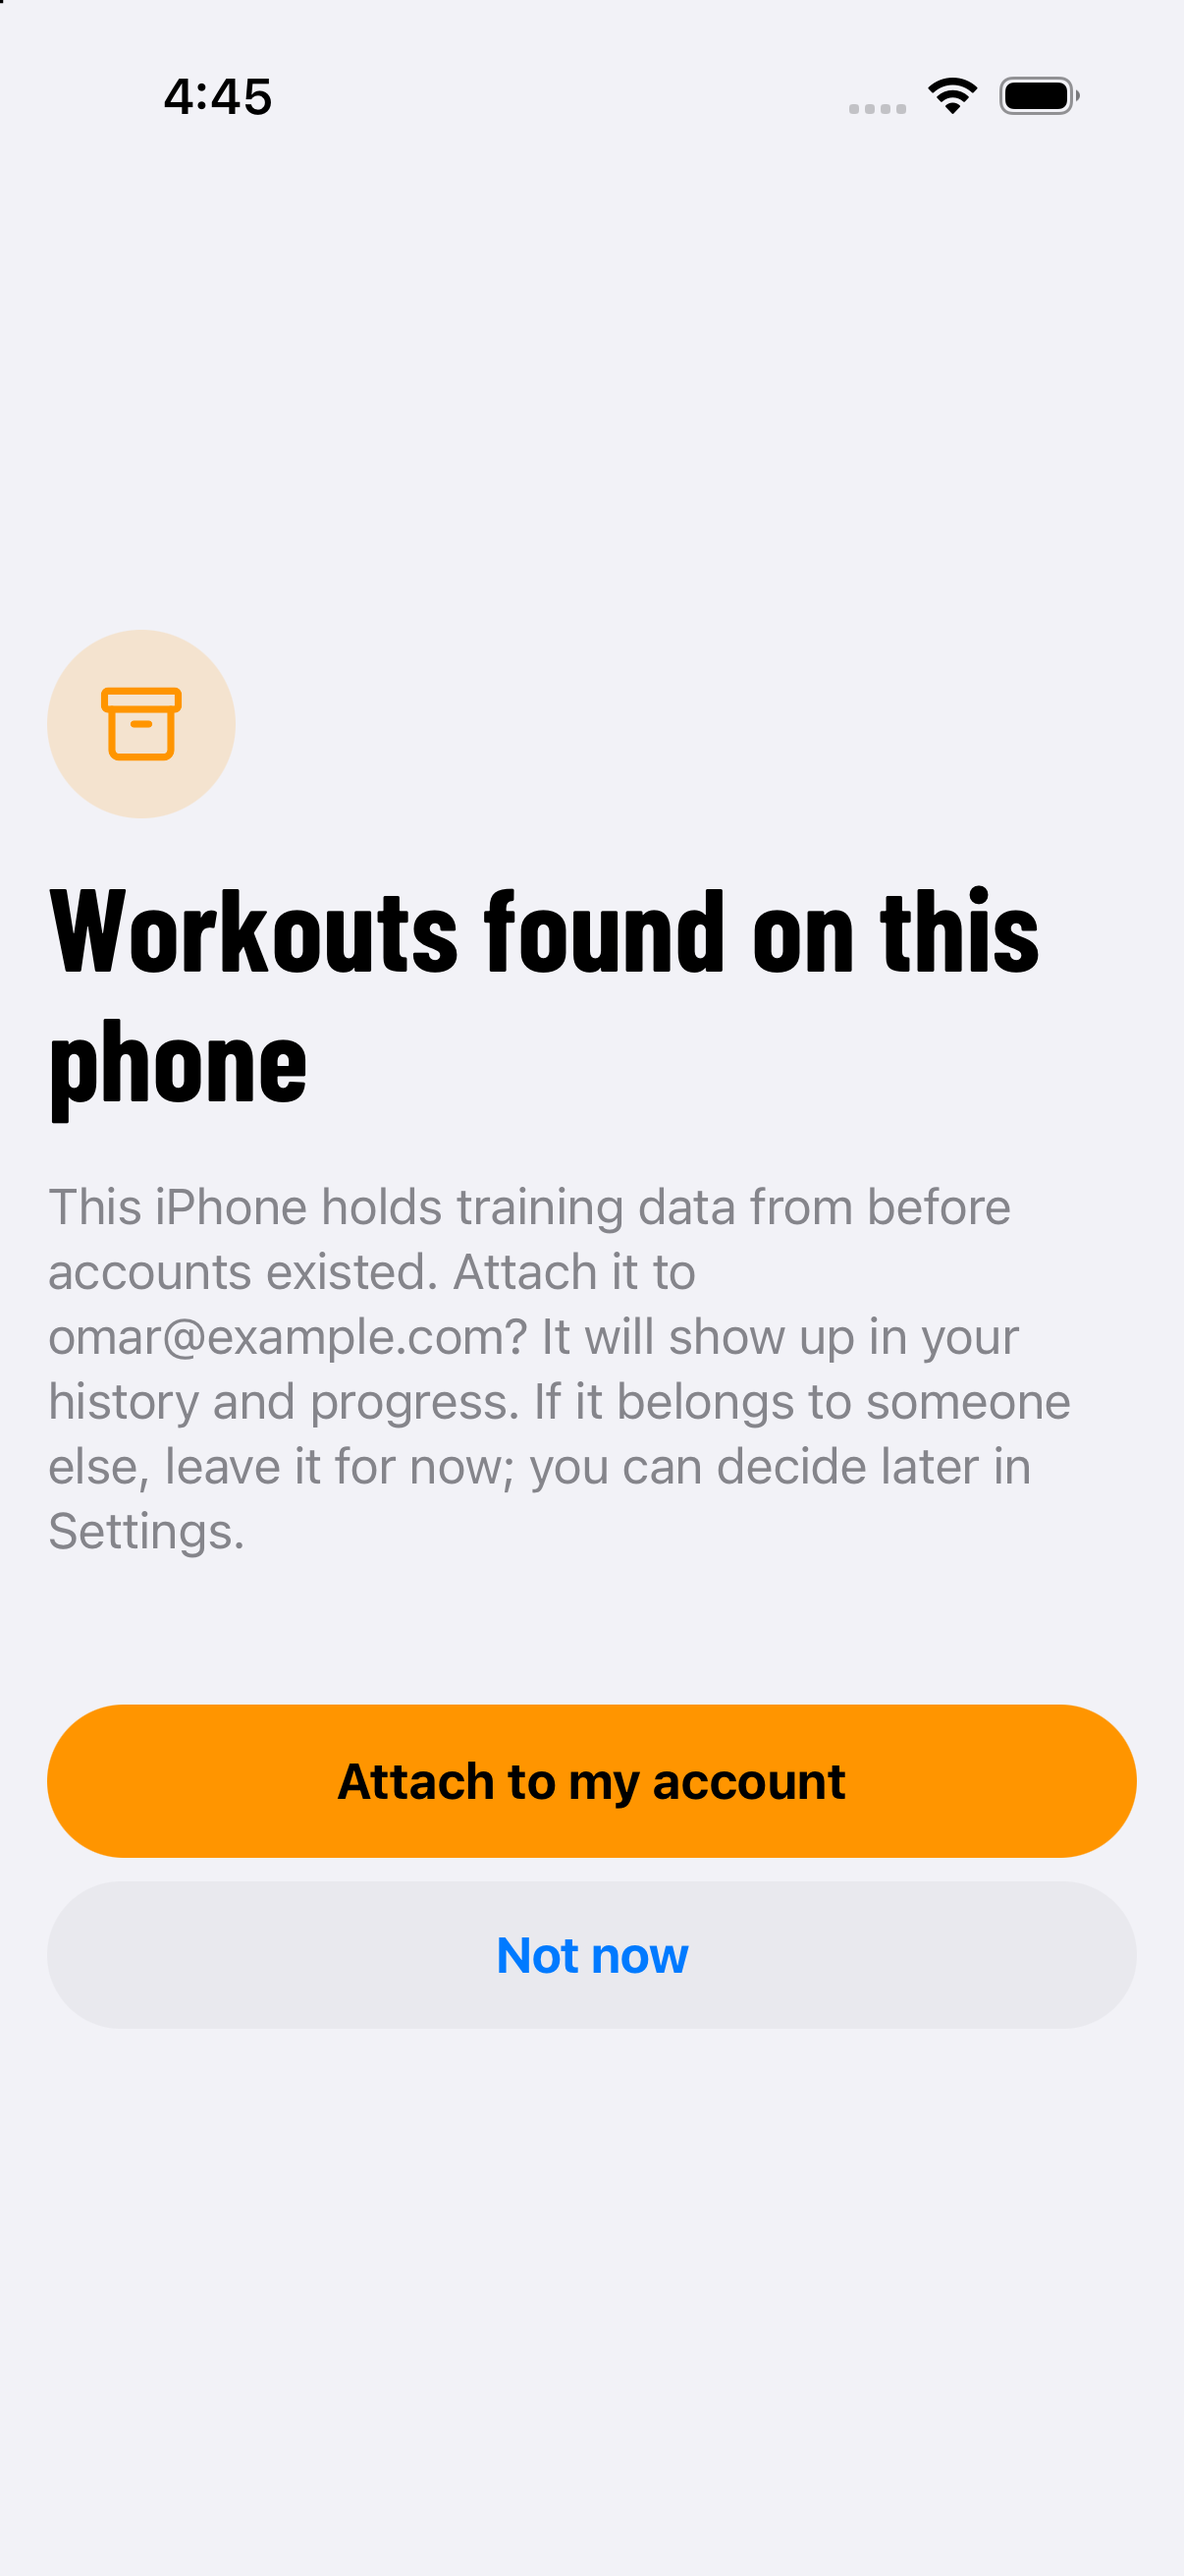
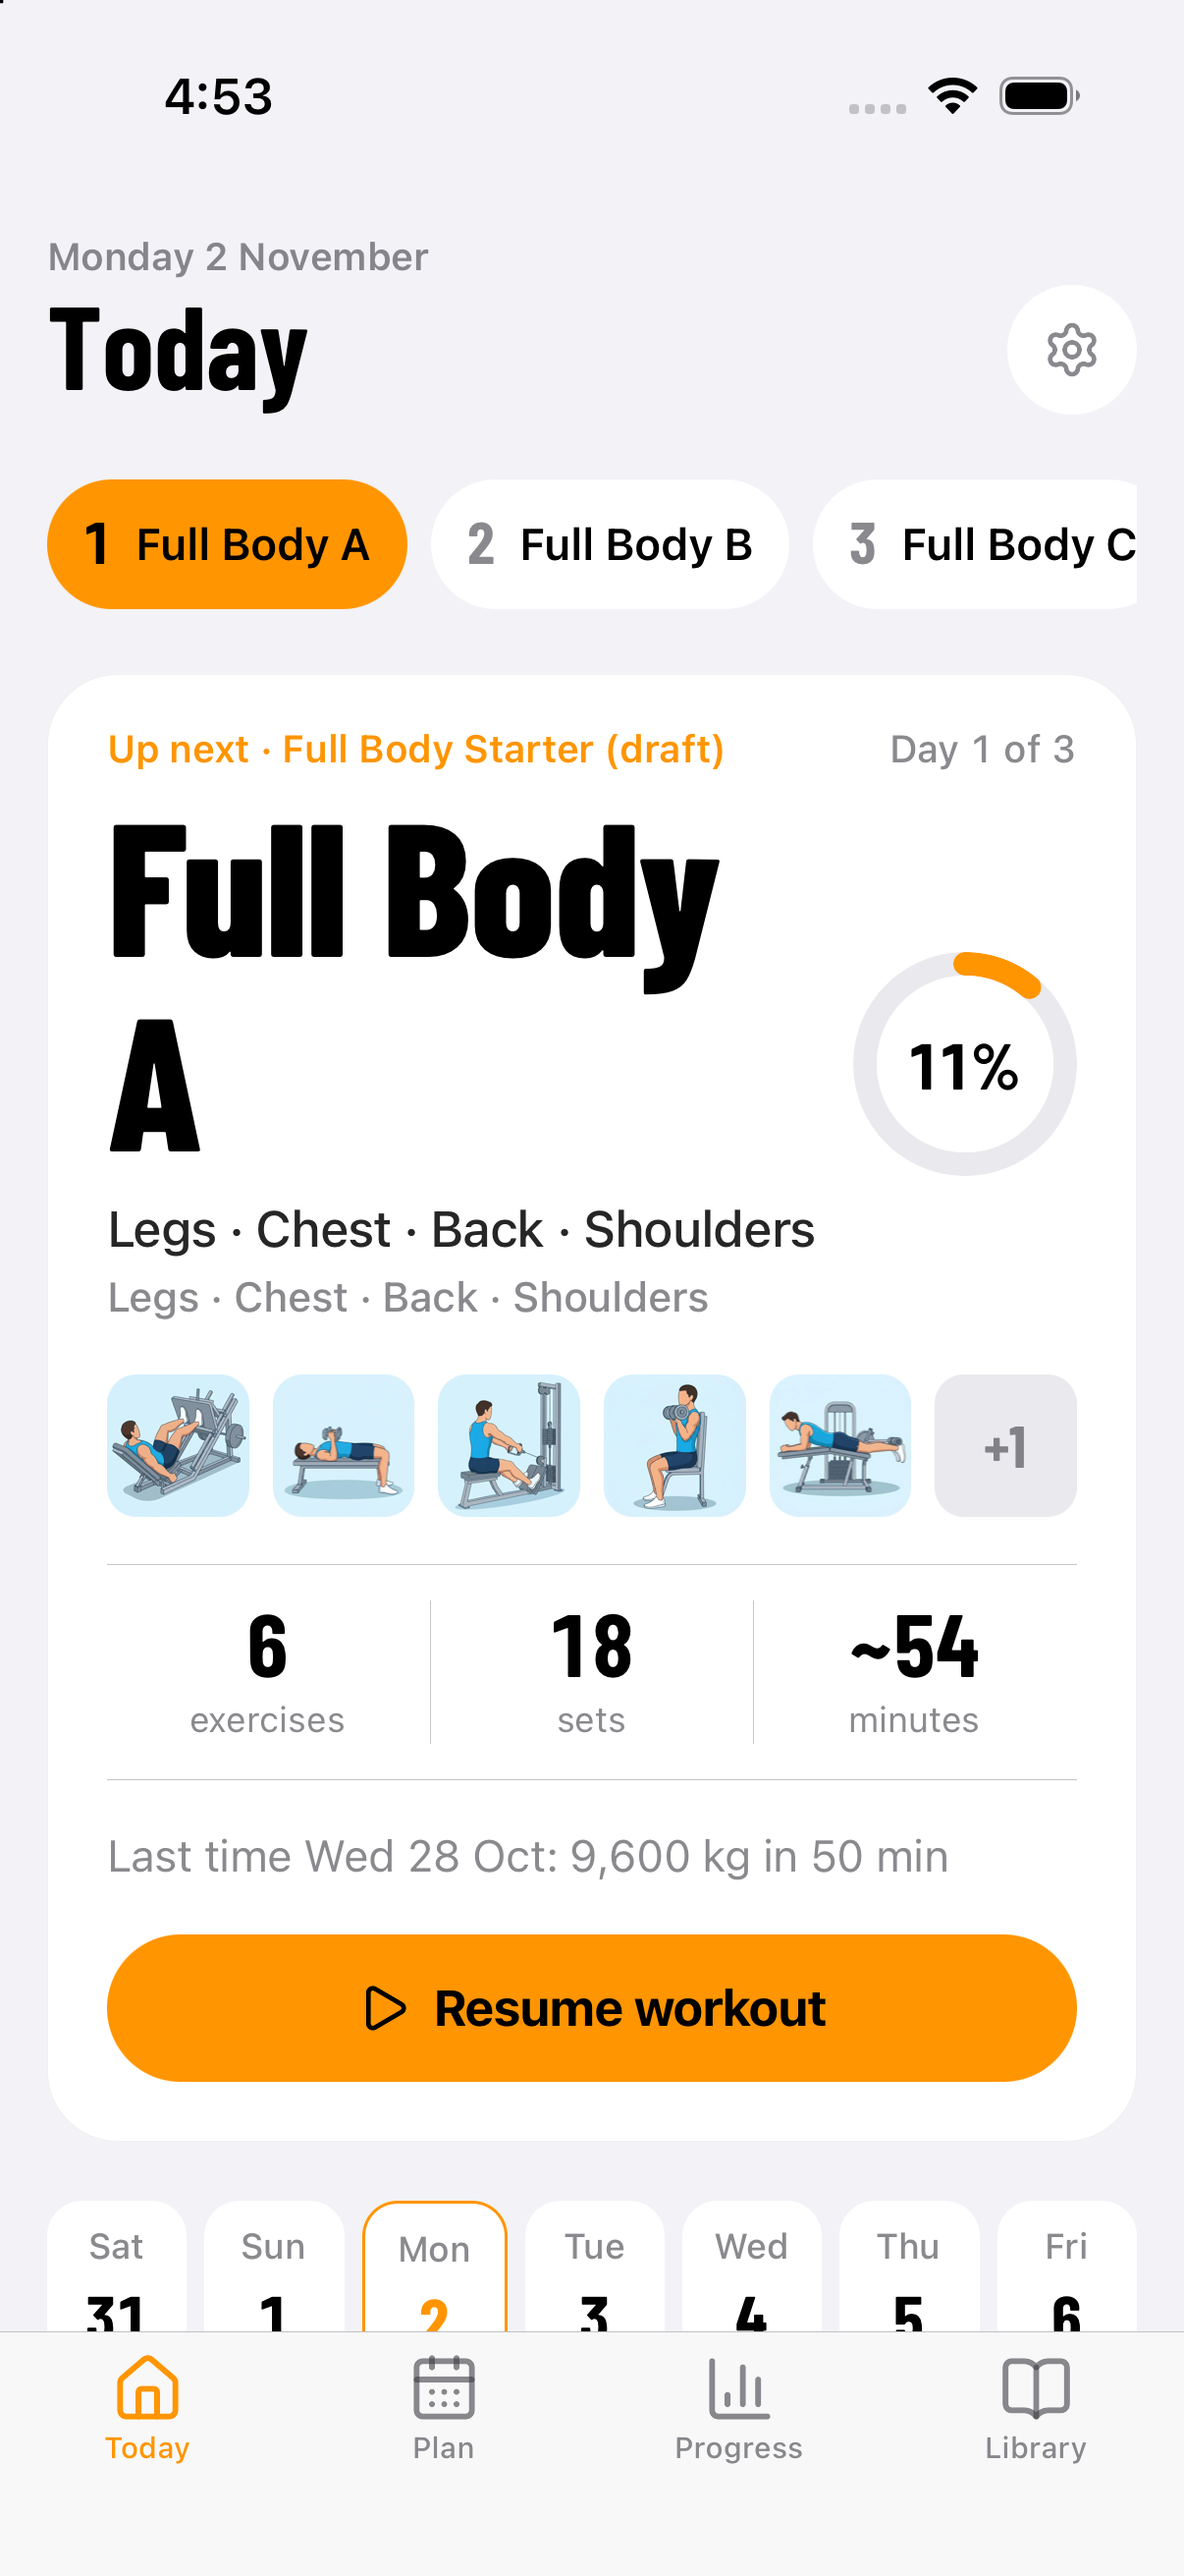
state(phase7): legacy claim verified on the simulator; Docker run recorded

diff --git a/.10x/reviews/2026-11-02-phase7-report.md b/.10x/reviews/2026-11-02-phase7-report.md
@@ -1,6 +1,6 @@
 # Phase 7 report — Private members platform
 
-**Date:** 2026-11-02 · **Branch:** `feature/phase7-private-auth` (worktree `../Gym RAT-phase7`) · **Base:** `main @ 4a65663` (Phase 6 merged) · **Tip:** `06ebdc3` · **Not merged, not pushed, nothing deployed, nothing uploaded to Apple.**
+**Date:** 2026-11-02 · **Branch:** `feature/phase7-private-auth` (worktree `../Gym RAT-phase7`) · **Base:** `main @ 4a65663` (Phase 6 merged) · **Tip:** see `git log` (state commit after `3c1c8a0`) · **Not merged, not pushed, nothing deployed, nothing uploaded to Apple.**
 **ADRs:** 015 (auth, sessions, offline lease, backend), 016 (per-account local data, legacy claim). **Spec:** `specs/2026-11-02-phase7-private-members-design.md`. **Security review:** `reviews/2026-11-02-phase7-security-review.md`. **QA:** `reviews/2026-11-02-phase7-qa-report.md`.
 
 ## Parallel-session safety
@@ -15,6 +15,8 @@ Inspected before touching anything: `main` already contained the Phase 6 merge (
 | `e39542a` | Server: admin dashboard, public link pages, Docker/Compose/Caddy, backup scripts |
 | `e65a5c1` | Server: dev CSP, Turbopack root, audit labels; dashboard screenshots |
 | `3fb949c` | App: Arabic eyebrow, brand glow; state files, README, screenshots |
+| `06ebdc3`, `b31301b` | State files, report |
+| `3c1c8a0` | App: legacy-data route reachable before onboarding, offer delayed past the iOS save-password sheet; server CLI bundled for Docker; fixture claim test |
 259 files changed (+20 693 / −1 001), of which ~110 are the new `server/` application.
 
 ## What was delivered (brief §12)
@@ -34,17 +36,18 @@ Inspected before touching anything: `main` already contained the Phase 6 merge (
 ## Test results
 | Check | Result |
 |---|---|
-| App Jest | 37 suites, **345 / 345** (37 new); 4 protected snapshots unchanged |
+| App Jest | 38 suites, **347 / 347** (39 new); 4 protected snapshots unchanged |
 | App `tsc` / `expo lint` / `expo-doctor` | 0 errors / clean / 20 / 20 |
 | Server Vitest (PGlite + real migration) | **30 / 30** (member auth 15, admin API 15) |
 | Server `tsc` / `eslint` / `next build` | 0 / clean / green (standalone output) |
+| Docker image (`docker build`, 424 MB) run against the dev Postgres | ✓ entrypoint applied migrations, `/api/health` ok, Docker healthcheck `healthy`, `dist/cli/bootstrap-admin.mjs` works inside the container, `/login` 200, login API answers; Caddyfile validated with `caddy validate` |
 | Release simulator build (arm64, Xcode 27) | **BUILD SUCCEEDED** ×2 (`release-artifacts/simulator-release-build*.log`) |
 | Unsigned device archive | **ARCHIVE SUCCEEDED** → `release-artifacts/GymRAT-unsigned.xcarchive` (zip + `SHA256SUMS.txt`) |
 | Signed archive / IPA | **Blocked** (below) |
-| End-to-end | Dashboard: setup → TOTP enrol → create members → invite → activate. App (Release simulator): sign-in → onboarding → Today → Settings account → sign-out → relaunch restore; Arabic RTL in light + true black. Server audit shows every step. |
+| End-to-end | Dashboard: setup → TOTP enrol → create members → invite → activate. App (Release simulator): sign-in → onboarding → Today → Settings account → sign-out → relaunch restore; Arabic RTL in light + true black. **Legacy claim:** the Phase 3 v7 fixture planted as `gymrat.db`, first sign-in as a new member offered the claim before onboarding, *Attach* copied it into `gymrat.u-<id>.db`, migrated 7 → 10 with a backup, renamed the original to `gymrat.legacy-claimed.db`, left the other account's file at 0 sessions, and Today showed the fixture's history (`ios-11`, `ios-12`). Server audit shows every step. |
 
 ## Screenshots (`reviews/phase7-screenshots/`)
-iOS: `ios-01-login-en`, `ios-02-login-filled`, `ios-04-today-after-login`, `ios-05-settings-account`, `ios-06-relaunch`, `ios-07-sign-out-confirm`, `ios-08-signed-out`, `ios-09-login-ar`, `ios-10-login-ar-true-black`. Admin: `admin-02-totp-enrol`, `admin-03-recovery-codes`, `admin-04-overview`, `admin-05-members`, `admin-06-member-detail` (with the simulator's device), `admin-07-security`, `admin-08-audit`, `admin-09-settings`, `admin-10-new-member`, `admin-11-members-light`, `admin-12-members-true-black`, `public-01-invitation`.
+iOS: `ios-01-login-en`, `ios-02-login-filled`, `ios-04-today-after-login`, `ios-05-settings-account`, `ios-06-relaunch`, `ios-07-sign-out-confirm`, `ios-08-signed-out`, `ios-09-login-ar`, `ios-10-login-ar-true-black`, `ios-11-legacy-claim`, `ios-12-after-claim`. Admin: `admin-02-totp-enrol`, `admin-03-recovery-codes`, `admin-04-overview`, `admin-05-members`, `admin-06-member-detail` (with the simulator's device), `admin-07-security`, `admin-08-audit`, `admin-09-settings`, `admin-10-new-member`, `admin-11-members-light`, `admin-12-members-true-black`, `public-01-invitation`.
 
 ## Backend startup (local)
 ```bash
@@ -93,5 +96,6 @@ xcodebuild -exportArchive -archivePath release-artifacts/GymRAT-signed.xcarchive
 ## Environment left behind
 - Worktree `../Gym RAT-phase7`, branch `feature/phase7-private-auth @ 3fb949c`; `main` untouched.
 - Docker container `gymrat-auth-dev-db-1` (Postgres on 127.0.0.1:5433) running with the demo data; Next dev server stopped.
-- Simulator `GymRAT-Phase7` (F0457793-D6F9-4BFA-B660-DF5BB8D8C8E1) booted, English, light, app signed out.
+- Simulator `GymRAT-Phase7` (F0457793-D6F9-4BFA-B660-DF5BB8D8C8E1) booted, English, light; signed in as the demo member who claimed the fixture history.
+- Docker image `gymrat-auth:phase7` built locally (test container removed).
 - `release-artifacts/` (gitignored): simulator build logs, unsigned archive + zip + checksums, device DerivedData, `archive-signed.log`.

diff --git a/.10x/decisions/qa/phase7-private-auth.md b/.10x/decisions/qa/phase7-private-auth.md
@@ -1,7 +1,7 @@
 # QA — phase7-private-auth
-**Automated:** app Jest 37 suites / 345 tests (37 new: `auth.session` 18, `auth.isolation` 10, `auth.screens` 9), 4 protected snapshots byte-identical; `tsc` 0; `expo lint` clean; `expo-doctor` 20/20. Server Vitest 30 tests on PGlite with the shipped migration; `tsc` 0; `eslint` clean; `next build` green.
+**Automated:** app Jest 38 suites / 347 tests (39 new: `auth.session` 18, `auth.isolation` 10, `auth.screens` 10, `auth.legacy-fixture` 1), 4 protected snapshots byte-identical; `tsc` 0; `expo lint` clean; `expo-doctor` 20/20. Server Vitest 30 tests on PGlite with the shipped migration; `tsc` 0; `eslint` clean; `next build` green; Docker image built and run locally (migrations, health, bootstrap CLI, API); Caddyfile validated.
 **Scenario coverage (brief §11):** login success/failure ✓ · disabled ✓ · missing/invalid sessions ✓ · refresh rotation + reuse ✓ · revocation (per device, all, admin) ✓ · password reset + invitation ✓ · admin-only authorization + member bearer refused ✓ · unauthorized API ✓ · brute force (per IP+account, per IP, TOTP) ✓ · account switching ✓ · local isolation ✓ · legacy migration (db + AsyncStorage, accept/decline) ✓ · offline grace ✓ · session expiry ✓ · force-quit + relaunch (unit: restore; manual: simulator) ✓ · existing workout features (308 prior tests + snapshots) ✓ · Arabic RTL + a11y labels (unit + simulator screenshot) ✓.
-**Manual (Release simulator build, GymRAT-Phase7, iPhone 17 Pro / iOS 26.3):** sign-in against the local server → onboarding → Today; Settings › Account shows lease and verification time; sign-out confirm keeps data; relaunch restores the session (`GET /api/auth/me 200`); Arabic RTL login in light and true black; dashboard shows the device and the audit trail.
+**Manual (Release simulator build, GymRAT-Phase7, iPhone 17 Pro / iOS 26.3):** sign-in against the local server → onboarding → Today; Settings › Account shows lease and verification time; sign-out confirm keeps data; relaunch restores the session (`GET /api/auth/me 200`); Arabic RTL login in light and true black; dashboard shows the device and the audit trail; legacy claim verified with the v7 fixture (copy, migrate 7→10, rename, other account untouched).
 **Manual (dashboard, Chrome):** setup link → password → TOTP enrolment → recovery codes → overview, members, new member, detail, security, audit, settings, light / true-black themes.
 **Not run:** physical iPhone; dashboard at phone width (responsive classes present, not screenshot-verified); email delivery (no SMTP).
-**Bugs found and fixed during QA:** disabled Sign-in button swallowed validation taps (now always pressable); Arabic eyebrow broken by letter-spacing; brand glow clipped; Next dev CSP needed `unsafe-eval`; vitest/migrate paths with spaces.
+**Bugs found and fixed during QA:** legacy-data route unreachable before onboarding; iOS save-password sheet stuck under a simultaneously pushed modal (offer delayed, plain screen); disabled Sign-in button swallowed validation taps (now always pressable); Arabic eyebrow broken by letter-spacing; brand glow clipped; Next dev CSP needed `unsafe-eval`; vitest/migrate paths with spaces.
